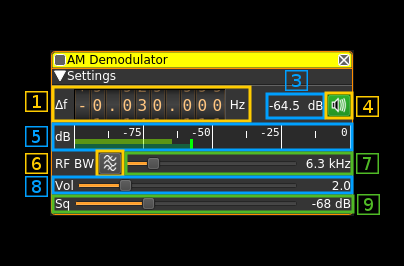
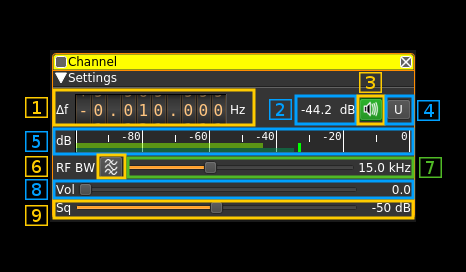
Updated documentation (1)

Changed region(s): [[0.0297, 0.1805, 0.9505, 0.8421]]

diff --git a/plugins/channelrx/demoddsd/readme.md b/plugins/channelrx/demoddsd/readme.md
@@ -179,57 +179,69 @@ Number of milliseconds following squelch gate opening after which the signal is 
 
 Audio mute toggle button. This button lights in green when the squelch opens.
 
-<h3>19: Format specific status display</h3>
+<h3>19: UDP output</h3>
+
+Copies audio output to UDP. Output is stereo S16LE samples. Depending on which slots are active the output is the following:
+
+  - Slot 1: slot 1 on left channel
+  - Slot 2: slot 2 on right channel
+  - Slot 1+2: slot 1 on left channel 
+
+It cannot mix both channels when slot1+2 are active.
+
+UDP address and send port are specified in the basic channel settings. See: [here](https://github.com/f4exb/sdrangel/blob/master/sdrbase/readme.md#6-channels)
+
+<h3>20: Format specific status display</h3>
 
 When the display is active the background turns from the surrounding gray color to dark green. It shows informatory or status messages that are particular to each format.
 
-<h4>19.1: D-Star status display</h4>
+<h4>20.1: D-Star status display</h4>
 
 ![DSD D-Star status](../../../doc/img/DSDdemod_plugin_dstar_status.png)
 
-<h5>19.1.1: Origin (my) and destination (your) callsign</h5>
+<h5>20.1.1: Origin (my) and destination (your) callsign</h5>
 
   - at the left of the `>` sign is the origin callsign ` MY` with the 4 character informative suffix nest to the slash `/`
   - at the right of the `>` sign is the destination callsign `YOUR`. As per Icom standard this is `CQCQCQ` when a call is made to all stations
   - this information is retrieved from the header or the slow data if it can be decoded
 
-<h5>19.1.2: Repeater callsign</h5>
+<h5>20.1.2: Repeater callsign</h5>
 
   - at the left of the `>` sign is the origin repeater or `RPT1`
   - at the right of the `>` sign is the destination repeater or `RPT2`
   - this information is retrieved from the header or the slow data if it can be decoded
 
-<h5>19.1.3: Informative text</h5>
+<h5>20.1.3: Informative text</h5>
 
 When slow data can be decoded this is the 20 character string that is sent in the text frames 
 
-<h5>19.1.4: Geopositional data</h5>
+<h5>20.1.4: Geopositional data</h5>
 
 When a `$$CRC` frame that carries geographical position can be successfully decoded from the slow data the geopositional information is displayed:  
 
    - at the left of the colon `:` is the QTH 6 character locator a.k.a. Maidenhead locator
    - at the right of the colon `:` is the bearing in degrees and distance in kilometers from the location entered in the main window `Preferences\My Position` dialog. The bearing and distance are separated by a slash `/`. 
 
-<h4>19.2: DMR status display</h4>
+<h4>20.2: DMR status display</h4>
 
 ![DSD DMR status](../../../doc/img/DSDdemod_plugin_dmr_status.png)
 
   - Note 1: statuses are polled at ~1s rate and therefore do not reflect values instantaneously. As a consequence some block types that occur during the conversation may not appear.
   - Note 2: status values remain unchanged until a new value is available for the channel or the transmissions stops then all values of both channels are cleared 
 
-<h5>19.2.1: Station role</h5>
+<h5>20.2.1: Station role</h5>
 
   - `BS`: base station
   - `MS`: mobile station
   - `NA`: not applicable or could not be determined (you should not see this normally)
 
-<h5>19.2.2: TDMA slot #0 status</h5>
+<h5>20.2.2: TDMA slot #0 status</h5>
 
 For mobile stations on an inbound channel there is no channel identification (no CACH) so information goes there by default.
 
-<h5>19.2.3: TDMA slot #1 status</h5>
+<h5>20.2.3: TDMA slot #1 status</h5>
 
-<h5>19.2.4: Channel status and color code</h5>
+<h5>20.2.4: Channel status and color code</h5>
 
 This applies to base stations and mobile stations in continuous mode that is transmissions including the CACH sequences.
 
@@ -244,7 +256,7 @@ This applies to base stations and mobile stations in continuous mode that is tra
     - The color code from 0 to 15 (4 bits)
     - `--`: The color code could not be decoded and information is missing
   
-<h5>19.2.5: Slot type</h5>
+<h5>20.2.5: Slot type</h5>
 
 This is either:
 
@@ -262,7 +274,7 @@ This is either:
    - `RES`: reserved data block 
    - `UNK`: unknown data type or could not be decoded
 
-<h5>19.2.6: Addressing information</h5>
+<h5>20.2.6: Addressing information</h5>
 
 String is in the form: `02223297>G00000222`
 
@@ -272,11 +284,11 @@ String is in the form: `02223297>G00000222`
     - `U`: unit (individual) address
   - Next on the right is the target address (24 bits) as defined in the DMR ETSI standard
 
-<h4>19.3: dPMR status display</h4>
+<h4>20.3: dPMR status display</h4>
 
 ![DSD dPMR status](../../../doc/img/DSDdemod_plugin_dpmr_status.png)
 
-<h5>19.3.1: dPMR frame tyoe</h5>
+<h5>20.3.1: dPMR frame tyoe</h5>
 
   - `--`: undetermined
   - `HD`: Header of FS1 type
@@ -288,23 +300,23 @@ String is in the form: `02223297>G00000222`
   - `XS`: Extended search: looking for a new payload frame when out of sequence
   - `EN`: End frame
   
-<h5>19.3.2: Colour code</h5>
+<h5>20.3.2: Colour code</h5>
 
 Colour code in decimal (12 bits)
 
-<h5>19.3.3: Own ID</h5>
+<h5>20.3.3: Own ID</h5>
 
 Sender's identification code in decimal (24 bits)
 
-<h5>19.3.4: Called ID</h5>
+<h5>20.3.4: Called ID</h5>
 
 Called party's identification code in decimal (24 bits)
 
-<h4>19.4: Yaesu System Fusion (YSF) status display</h4>
+<h4>20.4: Yaesu System Fusion (YSF) status display</h4>
 
 ![DSD YSF status](../../../doc/img/DSDdemod_plugin_ysf_status.png)
 
-<h5>19.4.1: FICH data</h5>
+<h5>20.4.1: FICH data</h5>
 
 This displays a summary of FICH (Frame Identification CHannel) block data. From left to right:
 
@@ -337,23 +349,23 @@ This displays a summary of FICH (Frame Identification CHannel) block data. From 
       - `L`: local path (as inthe example)
     - last three characters are the YSF squelch code (0..127) or dashes `---` if the YSF squelch is not active
     
-<h5>19.4.2: Origin and destination callsigns</h5>
+<h5>20.4.2: Origin and destination callsigns</h5>
 
   - at the left of the `>` sign is the origin callsign
   - at the right of the `>` sign is the destination callsign. It is filled with stars `*` when call is made to all stations (similar to the CQCQCQ in D-Star)
 
-<h5>19.4.3: Origin and destination repeaters callsigns</h5>
+<h5>20.4.3: Origin and destination repeaters callsigns</h5>
 
   - at the left of the `>` sign is the origin repeater callsign
   - at the right of the `>` sign is the destination repeater callsign. 
 
-<h5>19.4.4: Originator radio ID</h5>
+<h5>20.4.4: Originator radio ID</h5>
 
 This is the unique character string assigned to the device by the manufacturer.
 
-<h3>20: Discriminator output scope display</h3>
+<h3>21: Discriminator output scope display</h3>
 
-<h4>20.1 Transitions constellation display</h4>
+<h4>21.1 Transitions constellation display</h4>
 
 This is selected by the transition constellation or symbol synchronization signal toggle (see 7)
 
@@ -369,18 +381,18 @@ This allows the visualization of symbol transitions which depend on the type of 
 
 ![DSD scope](../../../doc/img/DSDdemod_plugin_scope.png)
 
-<h5>20.1.1: Setting the display</h5>
+<h5>21.1.1: Setting the display</h5>
 
   - On the combo box you should choose IQ (lin) for the primary display and IQ (pol) for secondary display
   - On the display buttons you should choose the side by side display
 
 On the same line you can choose any trace length. If it is too short the constellation points will not appear clearly and if it is too long the polar figure will be too dense. Usually 100ms give good results.
 
-<h5>20.1.2: IQ linear display</h5>
+<h5>21.1.2: IQ linear display</h5>
 
 The yellow trace (I) is the direct trace and the blue trace (Q) is the delayed trace. This can show how symbols differentiate between each other in a sort of eye diagram.
 
-<h5>20.1.3: IQ polar display</h5>
+<h5>21.1.3: IQ polar display</h5>
 
 This shows the constellation of transition points. You should adjust the frequency shift to center the figure and the maximum deviation and/or discriminator gain to contain the figure within the +/-0.4 square. +/- 0.1 to +/- 0.3 usually give the best results.
 
@@ -416,48 +428,48 @@ There are 16 possible points corresponding to the 16 possible transitions betwee
 
 Because not all transitions are possible similarly to the 2-FSK case pointer moves from the lower left side of the diagonal to the upper right side are not possible.
 
-<h5>20.1.4: I gain</h5>
+<h5>21.1.4: I gain</h5>
 
 You should set the slider to a unity (1) span (+/- 0.5) with no offset. This corresponds to full range in optimal conditions (100%). You can set the slider fully to the left (2) for a +/- 1.0 spn if you don't exactly match these conditions.
 
-<h5>20.1.5: Q gain</h5>
+<h5>21.1.5: Q gain</h5>
 
 You should set the slider to a unity (1) span (+/- 0.5) with no offset. This corresponds to full range in optimal conditions (100%). You can set the slider fully to the left (2) for a +/- 1.0 spn if you don't exactly match these conditions.
 
-<h5>20.1.6: Trigger settings</h5>
+<h5>21.1.6: Trigger settings</h5>
 
 You can leave the trigger free running or set it to I linear with a 0 threshold.
 
-<h4>20.2: Symbol synchronization display</h4>
+<h4>21.2: Symbol synchronization display</h4>
 
 This is selected by the transition constellation or symbol synchronization signal toggle (see 7)
 
 ![DSD scope](../../../doc/img/DSDdemod_plugin_scope2.png)
 
-<h5>20.2.1: IQ linear display</h5>
+<h5>21.2.1: IQ linear display</h5>
 
 The I trace (yellow) is the discriminator signal and the Q trace (blue) is the symbol synchronization monitor trace that goes to the estimated maximum discriminator signal level when a zero crossing in the symbol synchronization control signal is detected and goes to mid position ((max - min) / 2) of the discriminator signal when a symbol period starts.
 
 The symbol synchronization control signal is obtained by squaring the discriminator signal and passing it through a narrow second order bandpass filter centered on the symbol rate. Its zero crossing should occur close to the first fourth of a symbol period therefore when synchronization is ideal the Q trace (blue) should go down to mid position in the first fourth of the symbol period.
 
-<h5>20.2.2: Setting the display</h5>
+<h5>21.2.2: Setting the display</h5>
 
   - On the combo box you should choose IQ (lin) for the primary display and IQ (pol) for secondary display
   - On the display buttons you should choose the first display (1)
 
-<h5>20.2.3: Timing settings</h5>
+<h5>21.2.3: Timing settings</h5>
 
 You can choose any trace length with the third slider from the left however 100 ms will give you the best view. You may stretch further the display by reducing the full length to 20 ms or less using the first slider. You can move this 20 ms window across the 100 ms trace with the middle slider.
 
-<h5>20.2.4: I gain</h5>
+<h5>21.2.4: I gain</h5>
 
 You should set the slider to a unity (1) span (+/- 0.5) with no offset. This corresponds to full range in optimal conditions (100%). You can set the slider fully to the left (2) for a +/- 1.0 spn if you don't exactly match these conditions.
 
-<h5>20.2.5: Q gain</h5>
+<h5>21.2.5: Q gain</h5>
 
 You should set the slider to a unity (1) span (+/- 0.5) with no offset. This corresponds to full range in optimal conditions (100%). You can set the slider fully to the left (2) for a +/- 1.0 spn if you don't exactly match these conditions.
 
-<h5>20.2.6: Trigger settings</h5>
+<h5>21.2.6: Trigger settings</h5>
 
 You can leave the trigger free running or set it to I linear with a 0 threshold.
 

diff --git a/sdrbase/readme.md b/sdrbase/readme.md
@@ -228,6 +228,100 @@ This area shows the control GUIs of the channels curently active for the device.
 
 Details about the GUIs can be found in the channel plugins documentation which consits of a readme.md file in each of the channel plugins folder (done partially).
 
+With these channels: AM demod, BFM demod, DSD demod, NFM demod, UDP source, UDP sink some common basic settings can be set with a popup dialog. This dialog is opened by clicking on the small grey square on the top left of the channel window. The settings are as follows:
+
+![Basic channel settings](../doc/img/BasicChannelSettings.png)
+
+<h4>6.1: Window title</h4>
+
+Changes the channel window title
+
+<h4>6.2: Channel color</h4>
+
+Changes the color of the window title bar and spectrum overlay. To change the color click on the color square to open a color chooser dialog. The hex rgb value is displayed next to the color square.
+
+<h4>6.3: Frequency scale display type</h4>
+
+When the mouse is over the channel window or over the central line in the spectrum a channel parameter is displayed on the frequency scale. This parameter can be:
+
+  - Freq: channel absolute center frequency
+  - Title: channel window title
+  - AdSnd: UDP address and send port
+  - AdRcv: UDP address and receive port
+  
+<h4>6.4,5,6: UDP address (4) receive port (5) and send port (6)</h4>
+
+Some channels can exchange data over UDP. Depending on the channel the data is the following:
+
+<table>
+  <tr>
+    <th>Channel</th>
+    <th>Data sent</th>
+    <th>Type</th>
+    <th>Data received</th>
+    <th>Type</th>
+    <th>Address</th>
+  </tr>
+  <tr>
+    <td>AM demod</td>
+    <td>Audio</td>
+    <td>Mono</td>
+    <td>N/A</td>
+    <td>N/A</td>
+    <td>Remote</td>
+  </tr>
+  <tr>
+    <td>BFM demod</td>
+    <td>Audio</td>
+    <td>Stereo</td>
+    <td>N/A</td>
+    <td>N/A</td>
+    <td>Remote</td>
+  </tr>  
+  <tr>
+    <td>DSD demod</td>
+    <td>Audio</td>
+    <td>Stereo</td>
+    <td>N/A</td>
+    <td>N/A</td>
+    <td>Remote</td>
+  </tr>  
+  <tr>
+    <td>NFM demod</td>
+    <td>Audio</td>
+    <td>Mono</td>
+    <td>N/A</td>
+    <td>N/A</td>
+    <td>Remote</td>
+  </tr>
+  <tr>
+    <td>UDP source</td>
+    <td>Audio, I/Q</td>
+    <td>Mono, Stereo</td>
+    <td>Audio</td>
+    <td>Mono</td>
+    <td>Remote</td>
+  </tr>
+  <tr>
+    <td>UDP sink</td>
+    <td>N/A</td>
+    <td>N/A</td>
+    <td>Audio, I/Q</td>
+    <td>Mono, Stereo</td>
+    <td>Local</td>
+  </tr>
+</table>
+  
+Data type is S16LE 1 channel (Mono) or 2 channels (Stereo or I/Q)
+
+<h4>6.7: Validate and exit dialog</h4>
+
+Validates the data (saves it in the channel marker object) and exits the dialog
+
+<h4>6.8: Cancel changes and exit dialog</h4>
+
+Do not make any changes and exit dialog
+
 <h3>7. Spectrum from device</h3>
 
 This shows the spectrum in the passband returned from the sampling device possibly after decimation. The actual sample rate is shown in the device control at the left of the frequency display (2.3)

diff --git a/plugins/channelrx/demodam/readme.md b/plugins/channelrx/demodam/readme.md
@@ -12,13 +12,19 @@ This plugin can be used to listen to a narrowband amplitude modulated signal. "N
 
 Use the wheels to adjust the frequency shift in Hz from the center frequency of reception. Left click on a digit sets the cursor position at this digit. Right click on a digit sets all digits on the right to zero. This effectively floors value at the digit position. Wheels are moved with the mousewheel while pointing at the wheel or by selecting the wheel with the left mouse click and using the keyboard arroews. Pressing shift simultanoeusly moves digit by 5 and pressing control moves it by 2.
 
-<h3>3: Channel power</h3>
+<h3>2: Channel power</h3>
 
 Average total power in dB relative to a +/- 1.0 amplitude signal received in the pass band.
 
-<h3>4: Audio mute</h3>
+<h3>3: Audio mute</h3>
 
 Use this button to toggle audio mute for this channel. The button will light up in green if the squelch is open. This helps identifying which channels are active in a multi-channel configuration.
+
+<h3>4: UDP output</h3>
+
+Copies audio output to UDP. Audio is set at fixed level and is muted by the mute button (13) and squelch (9) is also applied. Output is mono S16LE samples. 
+
+UDP address and send port are specified in the basic channel settings. See: [here](https://github.com/f4exb/sdrangel/blob/master/sdrbase/readme.md#6-channels)
 
 <h3>5: Level meter in dB</h3>
 

diff --git a/plugins/channelrx/demodnfm/readme.md b/plugins/channelrx/demodnfm/readme.md
@@ -61,3 +61,9 @@ This is the value of the tone squelch received when the CTCSS is activated. It d
 <h3>13: Audio mute</h3>
 
 Use this button to toggle audio mute for this channel. The button will light up in green if the squelch is open. This helps identifying which channels are active in a multi-channel configuration.
+
+<h3>14: UDP output</h3>
+
+Copies audio output to UDP. Audio is set at fixed level and is muted by the mute button (13) and squelch is also applied. Output is mono S16LE samples. Note that fixed volume apart this is the exact same audio that is sent to the audio device in particular it is highpass filtered at 300 Hz and thus is not suitable for digital communications. For this purpose you have to use the UDP source plugin instead.
+
+UDP address and send port are specified in the basic channel settings. See: [here](https://github.com/f4exb/sdrangel/blob/master/sdrbase/readme.md#6-channels)
